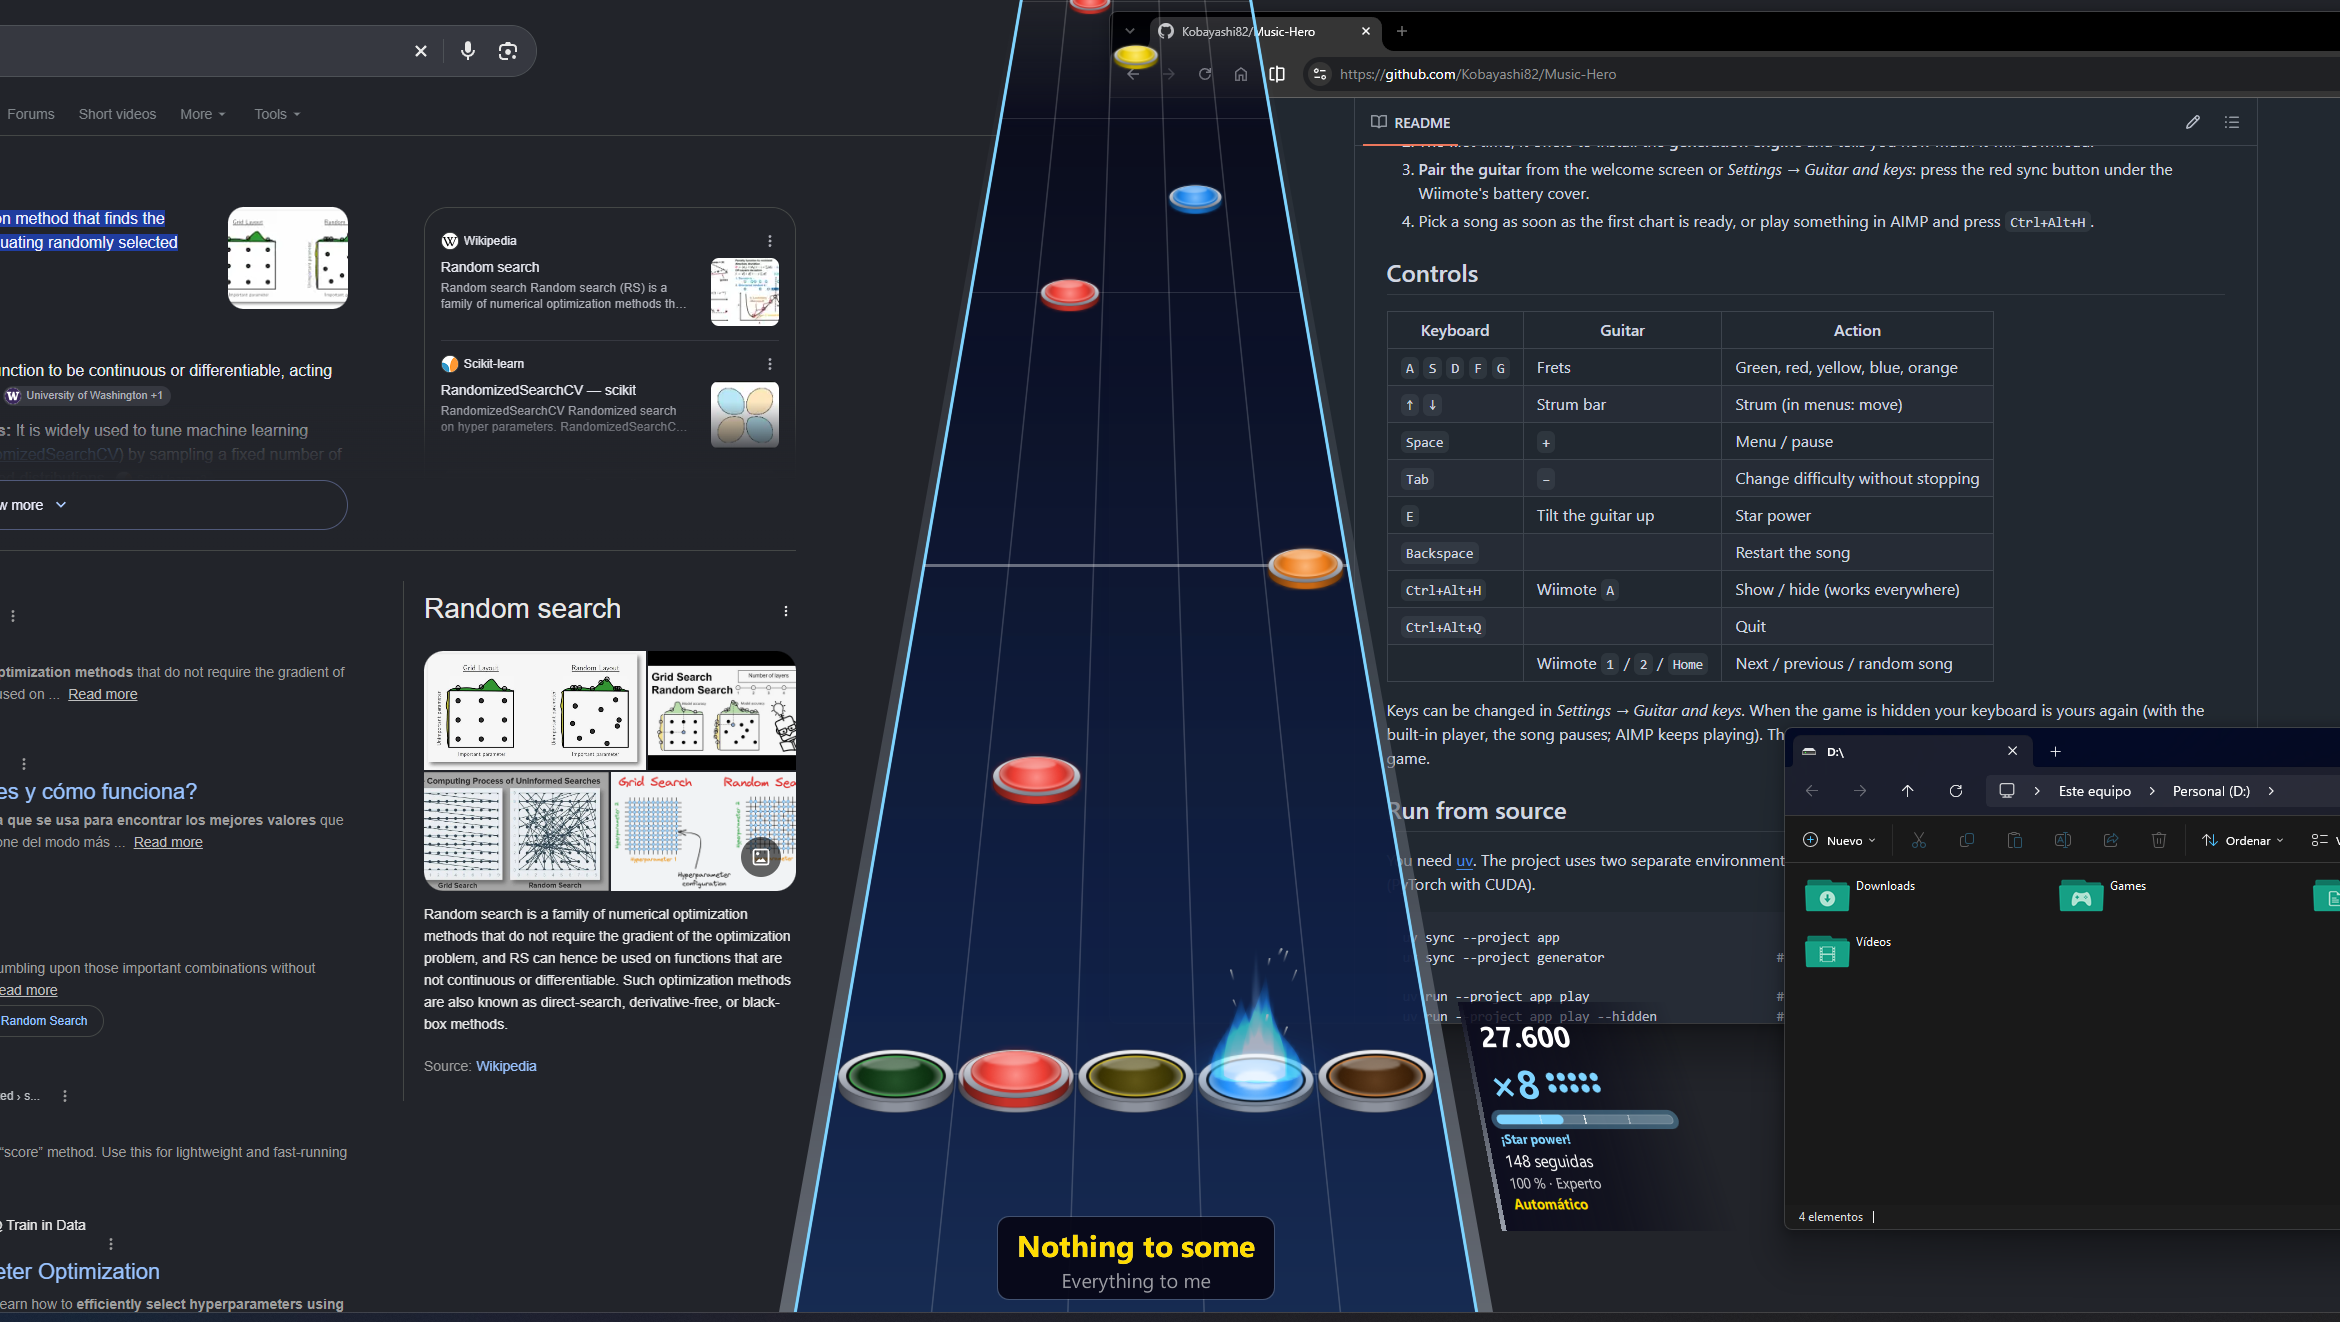
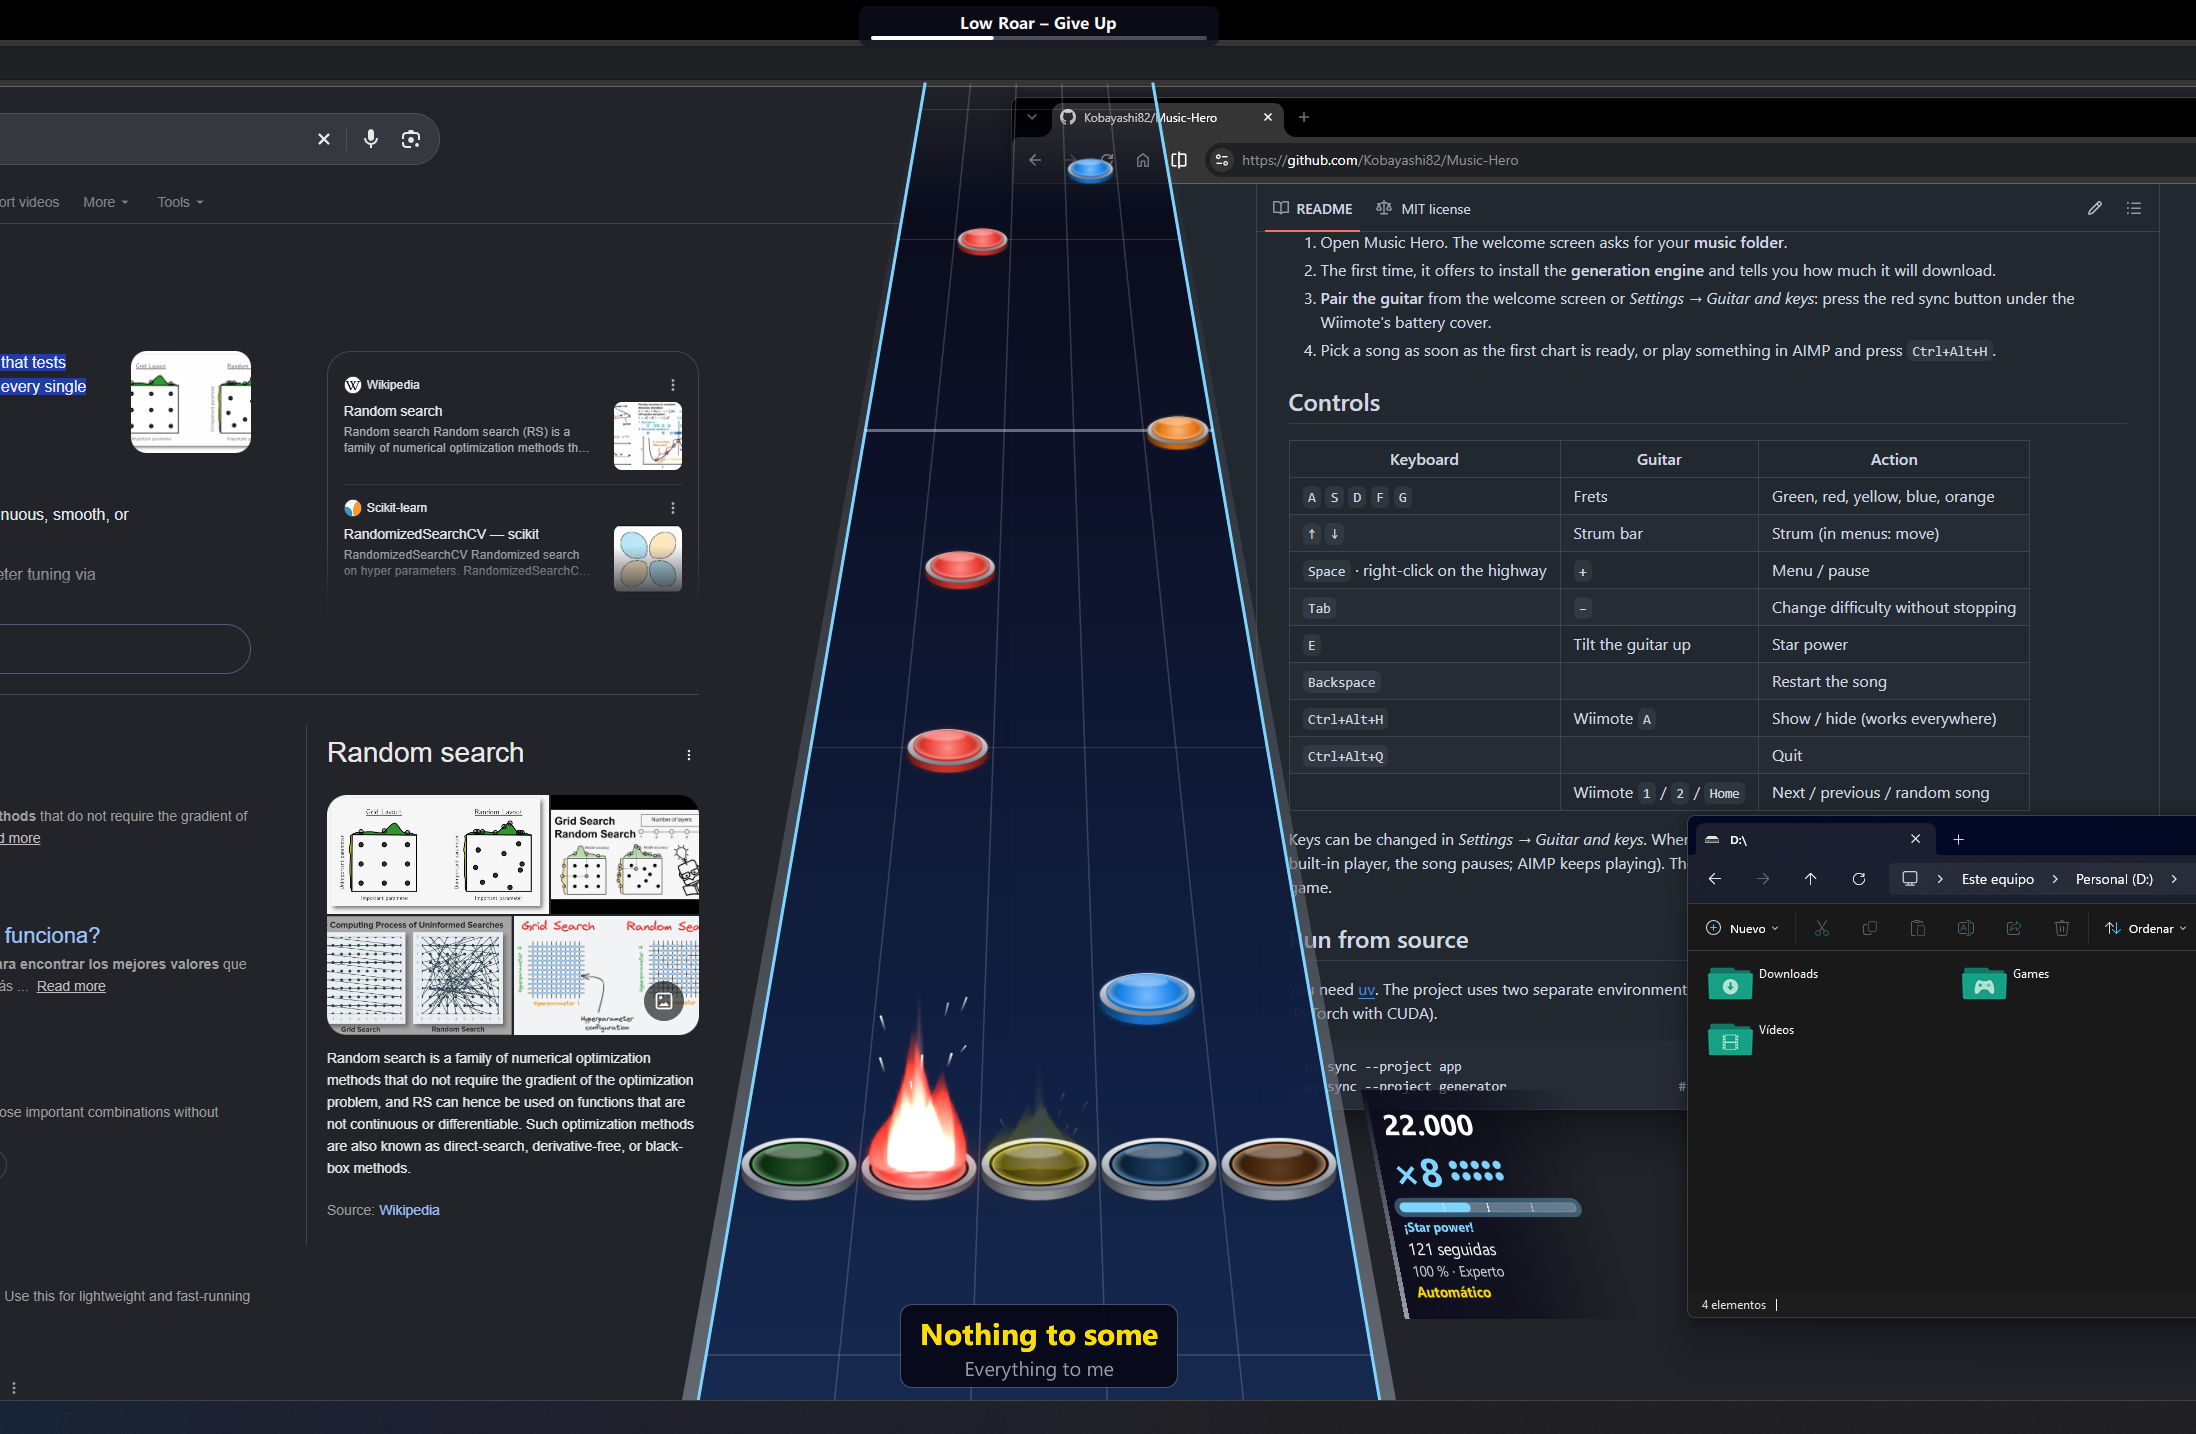
Sin aviso al ocultar el juego; nueva captura en el README

diff --git a/app/src/app/play.py b/app/src/app/play.py
@@ -133,7 +133,6 @@ class Session(QObject):
         self.mouse_on = False  # la ventana recibe el ratón (hay un menú abierto)
         self.tray: QSystemTrayIcon | None = None  # icono junto al reloj (main)
         self.right_click: win32.RightClick | None = None  # clic derecho en la autopista: el menú (main)
-        self.hidden_hint = False  # ya se avisó de que oculto sigue en el icono
         self.strum_hold: tuple[int, float, float] | None = None  # strum mantenido en un menú: (dirección, desde, siguiente)
         self.message = "; ".join(inputs.errors)
         self.autoplay = False
@@ -237,12 +236,6 @@ class Session(QObject):
             self.view.hide()
             if self.right_click:
                 self.right_click.rect = None
-            if self.tray and not self.hidden_hint:
-                self.hidden_hint = True
-                key = win32.combo_label(keymap(self.cfg.keys)["toggle"])
-                self.tray.showMessage(t("Music Hero sigue aquí"),
-                                      t("{key} o un clic en este icono para volver; para salir, clic derecho en el "
-                                        "icono.", key=key), QSystemTrayIcon.MessageIcon.NoIcon, 4000)
         else:
             if self.follow and not self.waiting:
                 self.resync()  # oculto no se pinta ni se juzga: se sigue desde donde va AIMP

diff --git a/app/src/app/lang_en.py b/app/src/app/lang_en.py
@@ -328,9 +328,6 @@ EN: dict[str, str] = {
     "{n} partidas · el {date}": "{n} games · on {date}",
 
     # ---------- icono de la bandeja ----------
-    "Music Hero sigue aquí": "Music Hero is still here",
-    "{key} o un clic en este icono para volver; para salir, clic derecho en el icono.":
-        "{key} or click this icon to come back; to quit, right-click the icon.",
     "Ocultar ({key})": "Hide ({key})",
     "Mostrar ({key})": "Show ({key})",
 
